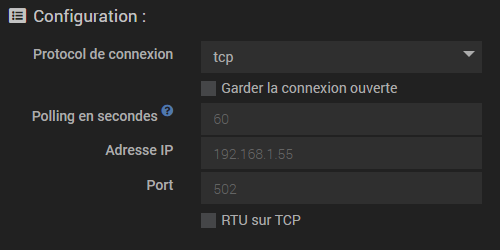
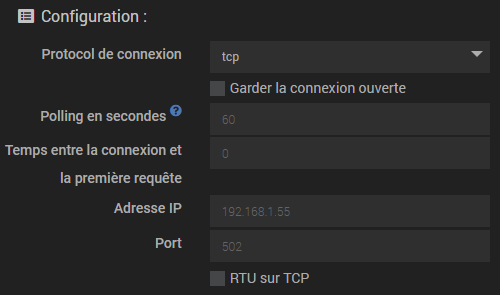
## 24/03/2023 V2.0 beta8 - Optimisation du temps de traitement des valeurs remontées par le démon - Gestion de la reconnexion en cas de déconnexion - Heartbeat entre le démon et Jeedom : un signal envoyé par le démon à Jeedom, si pas de réponse le démon se termine (pour éviter les zombis) - Permettr

diff --git a/fr_FR/changelog_b.md b/fr_FR/changelog_b.md
@@ -1,9 +1,6 @@
 # Changelog MyModbus beta
 
 ## TODO
-- Vérifier si les équipements ont effectivement des configurations différentes
-- Heartbeat entre le démon et Jeedom . un signal envoyé par le démon à Jeedom, si pas de réponse le démon se termine (pour éviter les zombis)
-- Permettre un temps d'attente avant la première requête (compatibilité avec Huawei SUN2000)
 - Templates : exporter, importer (en json) et éventuellement éditer des templates
 - Commande action avec la valeur d'une commande Jeedom en tant que valeur
 - Passer le niveau de log à la volée en cas de changement
@@ -15,6 +12,13 @@
 - Documentation :
   - Ajouter la méthode pour la mise à l'heure des automates Crouzet et Zelio
   - Documenter les nouvelles fonctionnalités
+
+## 24/03/2023 V2.0 beta8
+- Optimisation du temps de traitement des valeurs remontées par le démon
+- Gestion de la reconnexion en cas de déconnexion
+- Heartbeat entre le démon et Jeedom : un signal envoyé par le démon à Jeedom, si pas de réponse le démon se termine (pour éviter les zombis)
+- Permettre un temps d'attente avant la première requête (compatibilité avec Huawei SUN2000)
+- Validation de la configuration de sorte que deux équipements ne puissent pas utiliser la même connexion
 
 ## 23/03/2023 V2.0 beta7
 - Correction d'une erreur lors de la vérification des plages

diff --git a/fr_FR/index_b.md b/fr_FR/index_b.md
@@ -77,6 +77,10 @@ Pour chaque équipement, il faut préciser le type de connexion ainsi que les pa
 
 Pour chaque commande, il faut préciser les type et sous-type Jeedom ainsi que les paramètres de la requête Modbus.
 
+Le fait de sauvegarder la configuration lance une validation. Si la configuration est valide, le démon est (re)démarré.  
+Si au moins 2 équipements sont configurés pour communiquer avec le même appareil, MyModbus génèrera une erreur et le
+démon ne sera pas lancé.
+
 La configuration se fait via Plugins / Protocole domotique / MyModbus :  
 ![Accès à la configuration](../images/Menu_configuration.png)
 
@@ -124,6 +128,10 @@ secondes ne génère que du bruit sur une courbe journalière ou hebdomadaire.
 
 > A titre d'exemple un automate Wago avec un polling supérieur à 30 secondes ne supporte pas de garder la connexion
 > ouverte et génère des erreurs lors de l'exécution des requêtes. 
+
+Le "Temps entre la connexion et la première requête" peut être mis à 0 si le paramètre peut être ignoré. Pour
+certains appareils, il faut configurer une pause entre la connexion et la première requête. Pour l'onduleur SUN2000
+de Huawei, par exemple, ce temps est à configurer à 1 seconde.
 
 ### Cas d'une connexion série
 
